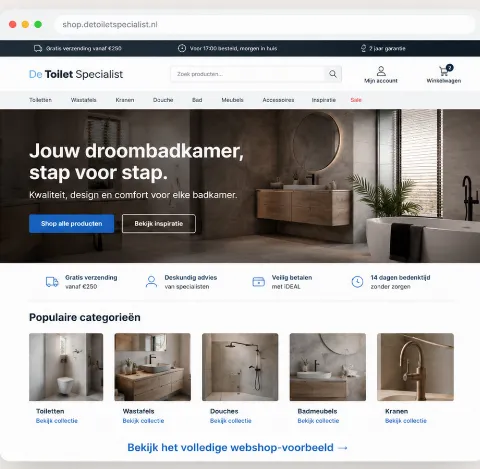
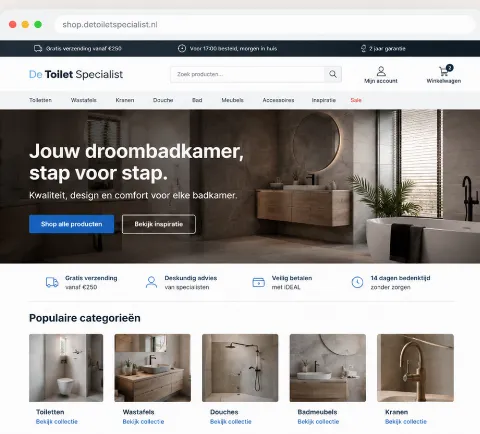
feat(channel-sites): "voorbeeld bekijken"-demo-links overal weg
De links/knoppen naar de demolaag (/voorbeeld) verwijderd; de "Gratis voorbeeld
aanvragen"-funnel (conversie-CTA) blijft overal staan.
- Home-hero (_sales): "Bekijk een voorbeeld"-knop + pill weg.
- Facet-hero (_landing): "Bekijk het voorbeeld"-knop weg.
- Gedeelde "zo-kan-het-worden"-partial: mockup niet meer klikbaar naar de demo,
  footer-link + rechter-CTA weg (geldt voor alle niches).
- Webshop-preview-beeld: baked-in "Bekijk het volledige webshop-voorbeeld"
  onderaan weggesneden.

diff --git a/resources/views/channels/_sales/badkamerspecialist.blade.php b/resources/views/channels/_sales/badkamerspecialist.blade.php
@@ -28,7 +28,6 @@
                     <h1>Meer badkamerklussen uit je eigen regio</h1>
                     <p class="lead">Een strakke website, webshop of klantenportaal die klanten binnenhaalt terwijl jij op de bouw staat. Wij bouwen 'm, jij bepaalt hoe ver je gaat.</p>
                     <a href="#gratis-voorbeeld" class="btn">Gratis voorbeeld aanvragen</a>
-                    <a href="{{ $site->url('voorbeeld') }}" class="btn btn-ghost" style="margin-left:.6rem">Bekijk een voorbeeld →</a>
                     <p class="muted" style="margin-top:.8rem;font-size:.9rem">Gratis &middot; vrijblijvend &middot; voorbeeld van jóuw site, vaak binnen 1 à 2 dagen</p>
                     <ul class="hero-usps">
                         <li>Gevonden worden als iemand een badkamer zoekt in jouw regio</li>
@@ -37,12 +36,11 @@
                     </ul>
                 </div>
                 @if ($heroImg)
-                    <div style="position:relative">
+                    <div>
                         <img src="{{ $heroImg }}"
                              @if ($heroSet) srcset="{{ $heroSet }}" sizes="(max-width:760px) 92vw, 46vw" @endif
                              alt="Voorbeeld van een badkamerwebsite" loading="eager" decoding="async"
                              style="width:100%;height:auto;border-radius:var(--radius);display:block;box-shadow:0 24px 60px -24px rgba(0,0,0,.4)">
-                        <a href="{{ $site->url('voorbeeld') }}" style="position:absolute;left:50%;bottom:14px;transform:translateX(-50%);background:rgba(255,255,255,.94);color:var(--c-ink);font-weight:700;font-size:.85rem;padding:.5rem 1rem;border-radius:999px;box-shadow:0 8px 24px -8px rgba(0,0,0,.5);white-space:nowrap">🔍 Bekijk dit voorbeeld</a>
                     </div>
                 @endif
             </div>

diff --git a/resources/views/channels/partials/zo-kan-het-worden.blade.php b/resources/views/channels/partials/zo-kan-het-worden.blade.php
@@ -78,7 +78,7 @@
 
         <div class="zkhw-grid">
             {{-- Browser-mockup met CTA naar het volledige live voorbeeld --}}
-            <a class="zkhw-window" href="{{ $href }}" aria-label="{{ $ctaLabel }}">
+            <div class="zkhw-window">
                 @if ($previewImg)
                     <img src="{{ $previewImg }}" @if ($previewSet) srcset="{{ $previewSet }}" sizes="(max-width:900px) 92vw, 52vw" @endif
                          alt="{{ $ctaLabel }}" loading="lazy" decoding="async" style="width:100%;height:auto;display:block">
@@ -117,8 +117,7 @@
                     </div>
                 </div>
                 @endif
-                <span class="zkhw-open">{{ $ctaLabel }} →</span>
-            </a>
+            </div>
 
             {{-- Tekstkolom: wat dit product oplevert --}}
             <div class="zkhw-aside">
@@ -130,7 +129,6 @@
                         </li>
                     @endforeach
                 </ul>
-                <a href="{{ $href }}" class="btn">{{ $ctaLabel }} →</a>
             </div>
         </div>
     </div>

diff --git a/resources/views/channels/_landing/badkamerspecialist.blade.php b/resources/views/channels/_landing/badkamerspecialist.blade.php
@@ -36,7 +36,6 @@
                     <h1>{{ $hero['title'] ?? $fLabel }}</h1>
                     @if (! empty($hero['sub']))<p class="lead">{{ $hero['sub'] }}</p>@endif
                     <a href="#gratis-voorbeeld" class="btn">Gratis voorbeeld aanvragen</a>
-                    <a href="{{ $site->url('voorbeeld/' . $facet) }}" class="btn btn-ghost" style="margin-left:.6rem">Bekijk het voorbeeld →</a>
                     @if (! empty($hero['note']))<p class="muted" style="margin-top:.8rem;font-size:.9rem">{{ $hero['note'] }}</p>@endif
                     @if (! empty($hero['usps']))
                         <ul class="hero-usps">
